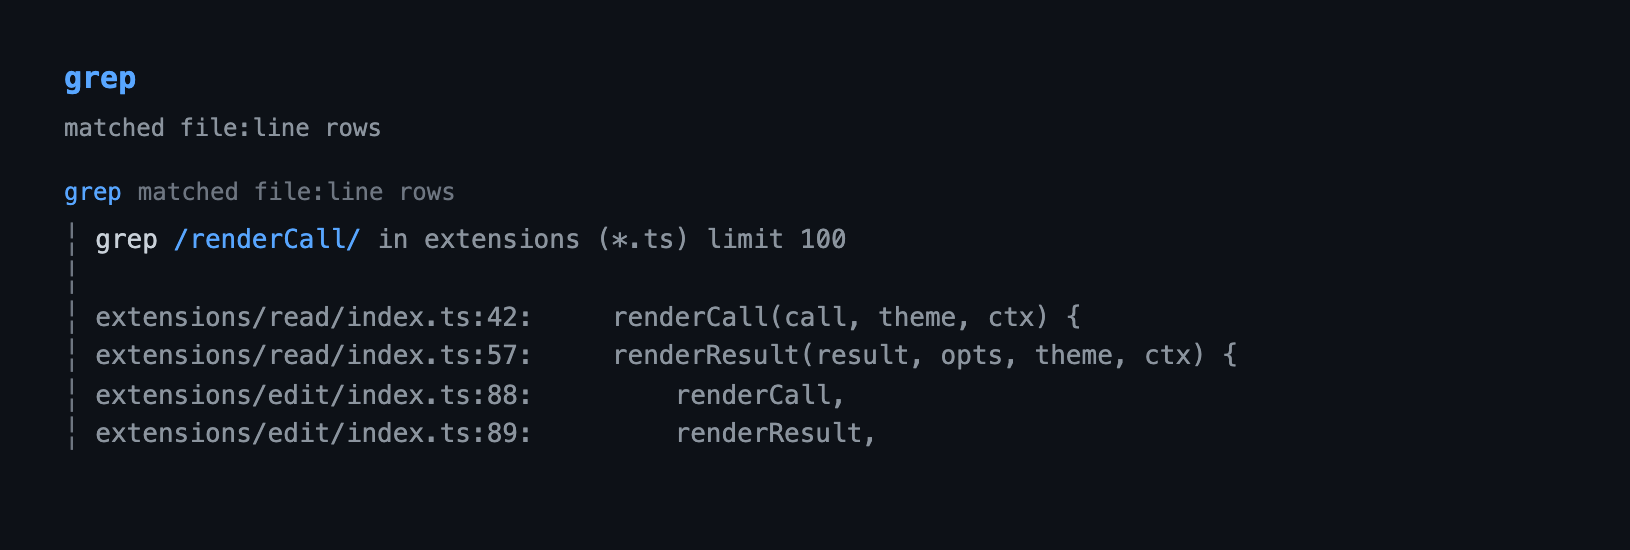
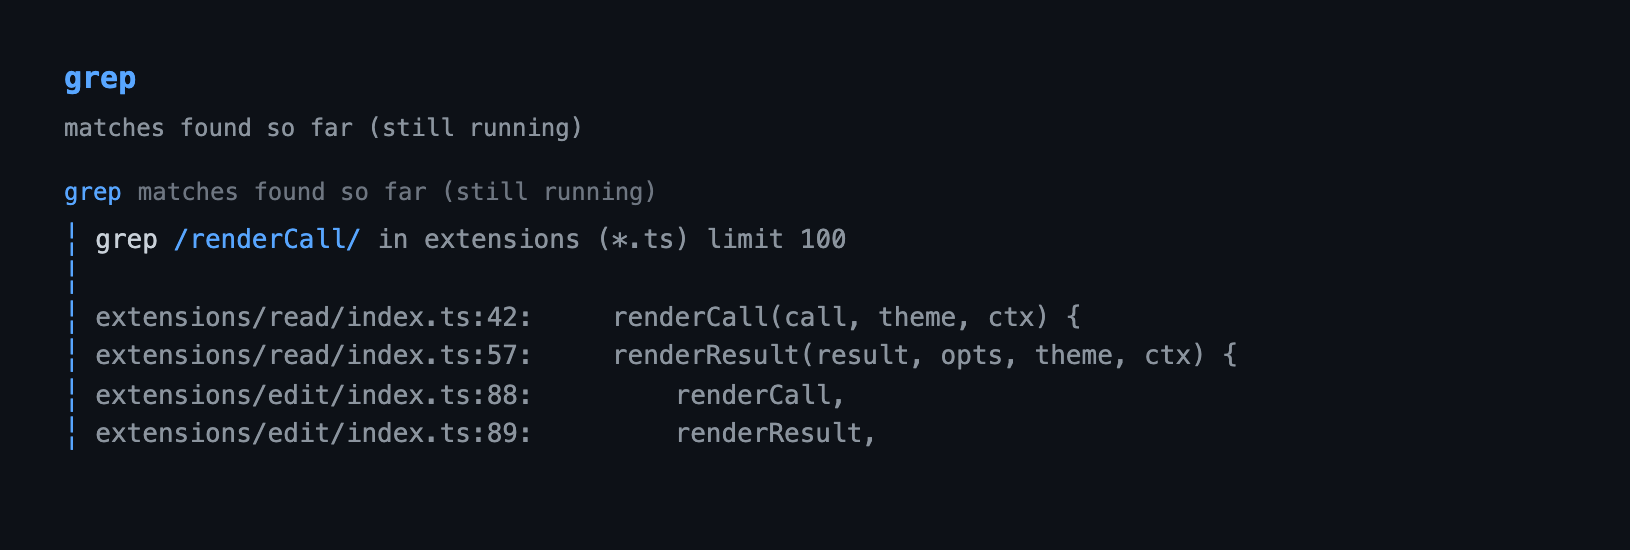
feat(bytefly): frame edit with the shared rail
`renderShell: "self"` only tells Pi not to draw its filled box, so once the
shipped themes emptied the tool fills `edit` was the one block with no frame at
all: no rail, no fill, no border. The resolver wraps it too, and drops the blank
edges its own Box pads itself with so the rail starts at the call. The rail's
blank test now ignores terminal sequences, so a background-padded line counts as
blank instead of as content.

The gallery also draws `grep` mid-run, so the accent rail the running case gets
is visible beside the neutral and failed ones; the gallery and the `edit` and
`grep` per-tool images are regenerated.

Changed region(s): [[0.092, 0.2164, 0.3681, 0.2473], [0.1534, 0.34, 0.3988, 0.3709]]

diff --git a/extensions/bytefly/block/register.ts b/extensions/bytefly/block/register.ts
@@ -7,9 +7,11 @@
  * content is unchanged and only the framing is bytefly's. A tool with no
  * renderer gets a framed generic fallback instead of an unframed row.
  *
- * A tool that already renders its own shell (`renderShell: "self"`, currently
- * `edit`) is returned untouched: it draws its own frame, and wrapping it would
- * nest a second one.
+ * The frame is added even for a tool that sets `renderShell: "self"` (`edit`):
+ * that only tells Pi not to draw its filled box, and the shipped themes leave
+ * the tool fills to the terminal, so such a tool would otherwise be the one
+ * block with no frame at all. The rail is bytefly's, not Pi's box, so nothing
+ * nests.
  *
  * Pi hands a renderer the component it returned last time as
  * `context.lastComponent`, and every built-in renderer reuses it in place — it
@@ -36,7 +38,6 @@ interface BlockMemory {
 export function registerToolBlocks(pi: ExtensionAPI): void {
 	pi.registerToolRenderer((toolName, next) => {
 		const base = next();
-		if (base?.renderShell === "self") return base;
 		return {
 			renderShell: "self",
 			renderCall: (args, theme, context) => {
@@ -45,7 +46,9 @@ export function registerToolBlocks(pi: ExtensionAPI): void {
 					base?.renderCall?.(args, theme, { ...context, lastComponent: memory.byteflyBaseCall }) ??
 					new Text(callFallback(toolName, args, theme, context.expanded), 0, 0);
 				memory.byteflyBaseCall = inner;
-				return new ToolBlock(inner, blockStatus(context), theme, context.outputPad);
+				// A self-shell renderer (`edit`) is a `Box` that pads itself top and
+				// bottom; drop those blank edges so the rail starts at the call.
+				return new ToolBlock(inner, blockStatus(context), theme, context.outputPad, base?.renderShell === "self");
 			},
 			renderResult: (result, options, theme, context) => {
 				const memory = context.state as BlockMemory;

diff --git a/lib/tui/rail.ts b/lib/tui/rail.ts
@@ -13,7 +13,7 @@
  */
 
 import type { Theme } from "@earendil-works/pi-coding-agent";
-import { type Component, truncateToWidth, visibleWidth } from "@earendil-works/pi-tui";
+import { type Component, stripTerminalSequences, truncateToWidth, visibleWidth } from "@earendil-works/pi-tui";
 import { GLYPHS } from "./glyphs.ts";
 import { paint, type TuiRole } from "./tokens.ts";
 
@@ -43,8 +43,19 @@ export const RAIL_ROLES: Readonly<Record<RailStatus, TuiRole>> = {
 export interface RailOptions {
 	/** Extra columns before the rail, e.g. a tool's `outputPad`. */
 	indent?: number;
+	/** Drop leading lines with no visible content. Default false. */
+	trimLeading?: boolean;
 	/** Drop trailing lines with no visible content. Default true. */
 	trimTrailing?: boolean;
+}
+
+/**
+ * A line with no visible text. Tested after stripping terminal sequences, so a
+ * line that is only spaces carrying a background (a `Box`'s own padding) counts
+ * as blank rather than as content.
+ */
+function isBlank(line: string): boolean {
+	return stripTerminalSequences(line).trim().length === 0;
 }
 
 /** Columns the rail prefix occupies at an indent. */
@@ -90,7 +101,13 @@ export function railBlockLines(
 			continue;
 		}
 		lines.push(truncateToWidth(`${prefix}${line}`, w, ""));
-		blank.push(visibleWidth(line) === 0);
+		blank.push(isBlank(line));
+	}
+	if (options.trimLeading) {
+		while (blank.length > 0 && blank[0]) {
+			lines.shift();
+			blank.shift();
+		}
 	}
 	if (options.trimTrailing !== false) {
 		while (blank.length > 0 && blank[blank.length - 1]) {

diff --git a/extensions/bytefly/block/component.ts b/extensions/bytefly/block/component.ts
@@ -35,8 +35,9 @@ export function toolBlockLines(
 	theme: Theme,
 	width: number,
 	outputPad: number,
+	trimLeading = false,
 ): string[] {
-	return railLines(inner, BLOCK_CONFIG.roles[status], theme, width, { indent: outputPad });
+	return railLines(inner, BLOCK_CONFIG.roles[status], theme, width, { indent: outputPad, trimLeading });
 }
 
 /** The rail frame Pi mounts in place of its background box for a tool row. */
@@ -46,6 +47,12 @@ export class ToolBlock implements Component {
 		private readonly status: BlockStatus,
 		private readonly theme: Theme,
 		private readonly outputPad: number,
+		/**
+		 * Drop the component's own leading blank lines. Set for a `renderShell:
+		 * "self"` tool (`edit`), whose `Box` pads itself top and bottom; without
+		 * this the frame draws a bare rail above the call.
+		 */
+		private readonly trimLeading = false,
 	) {}
 
 	invalidate(): void {
@@ -53,6 +60,6 @@ export class ToolBlock implements Component {
 	}
 
 	render(width: number): string[] {
-		return toolBlockLines(this.inner, this.status, this.theme, Math.max(1, width), this.outputPad);
+		return toolBlockLines(this.inner, this.status, this.theme, Math.max(1, width), this.outputPad, this.trimLeading);
 	}
 }

diff --git a/extensions/bytefly/block/register.test.ts b/extensions/bytefly/block/register.test.ts
@@ -32,9 +32,16 @@ describe("registerToolBlocks", () => {
 		expect(lines[0]?.startsWith(RAIL)).toBe(true);
 	});
 
-	test("leaves a tool that renders its own shell unchanged", () => {
-		const base = { renderShell: "self" as const, renderCall: () => new Text("own", 0, 0) };
-		expect(resolver()("edit", () => base)).toBe(base);
+	test("frames a tool that renders its own shell, dropping its blank edges", () => {
+		const base = {
+			renderShell: "self" as const,
+			renderCall: () => new Text(["", "own", ""].join("\n"), 0, 0),
+		};
+		const renderers = resolver()("edit", () => base);
+		expect(renderers?.renderShell).toBe("self");
+		const lines = renderers?.renderCall?.({}, fakeTheme, ctx()).render(40) ?? [];
+		expect(lines).toHaveLength(1);
+		expect(lines[0]?.trimEnd()).toBe(`${RAIL} own`);
 	});
 
 	test("frames a generic fallback when the base has no renderer", () => {

diff --git a/lib/tui/rail.test.ts b/lib/tui/rail.test.ts
@@ -57,6 +57,19 @@ describe("railBlockLines", () => {
 		expect(railBlockLines(["a", "", "b", ""], "ok", fakeTheme, 40)).toEqual([`${RAIL} a`, `${RAIL} `, `${RAIL} b`]);
 	});
 
+	test("treats a background-padded line as blank when trimming", () => {
+		const padded = "\u001b[49m      \u001b[49m";
+		expect(railBlockLines(["a", padded], "ok", fakeTheme, 40)).toEqual([`${RAIL} a`]);
+	});
+
+	test("keeps a leading blank by default", () => {
+		expect(railBlockLines(["", "a"], "ok", fakeTheme, 40)).toEqual([`${RAIL} `, `${RAIL} a`]);
+	});
+
+	test("drops leading blanks when asked", () => {
+		expect(railBlockLines(["", "a", ""], "ok", fakeTheme, 40, { trimLeading: true })).toEqual([`${RAIL} a`]);
+	});
+
 	test("keeps trailing blanks when asked", () => {
 		expect(railBlockLines(["a", ""], "ok", fakeTheme, 40, { trimTrailing: false })).toEqual([`${RAIL} a`, `${RAIL} `]);
 	});

diff --git a/extensions/bytefly/block/component.test.ts b/extensions/bytefly/block/component.test.ts
@@ -57,6 +57,10 @@ describe("toolBlockLines", () => {
 		expect(toolBlockLines(innerOf(["a", ""]), "ok", fakeTheme, 40, 0)).toEqual([`${RAIL} a`]);
 	});
 
+	test("drops a self-shell's leading blanks when asked", () => {
+		expect(toolBlockLines(innerOf(["", "a"]), "ok", fakeTheme, 40, 0, true)).toEqual([`${RAIL} a`]);
+	});
+
 	test("renders nothing for an absent inner", () => {
 		expect(toolBlockLines(undefined, "ok", fakeTheme, 40, 0)).toEqual([]);
 	});

diff --git a/scripts/tool-fixtures.ts b/scripts/tool-fixtures.ts
@@ -127,8 +127,10 @@ export const FIXTURES: ToolFixture[] = [
 	{
 		name: "grep",
 		group: "builtin",
-		label: "matched file:line rows",
+		label: "matches found so far (still running)",
 		args: { pattern: "renderCall", path: "extensions", glob: "*.ts", limit: 100 },
+		// The accent rail: a running call is the one block that spends colour.
+		options: { isPartial: true },
 		result: {
 			content: [
 				{

diff --git a/extensions/bytefly/README.md b/extensions/bytefly/README.md
@@ -180,11 +180,13 @@ the two share one left edge and one nesting depth. The rail is neutral by
 default: a finished call is `dim`, only a running call takes the accent, and only
 a failure is red, so the transcript spends colour where something needs
 attention instead of on every block. A tool with no renderer of its own is
-framed around a generic call/result fallback. A tool that already draws its own
-shell (`edit`) is left as it is, because wrapping it would nest a second frame;
-the shipped themes leave the tool fills to the terminal, so its box carries no
-fill either and sits in the same rail family. The frame's status roles are tuned
-in [`block/config.ts`](./block/config.ts).
+framed around a generic call/result fallback. A tool that draws its own shell
+(`edit`) is framed too: `renderShell: "self"` only tells Pi not to draw its
+filled box, and the shipped themes leave the tool fills to the terminal, so
+without the rail `edit` would be the one block with no frame at all. Its own
+`Box` pads itself top and bottom, so the frame drops those blank edges and starts
+at the call. The frame's status roles are tuned in
+[`block/config.ts`](./block/config.ts).
 
 **Extension screen.** `/bytefly [extension] [refresh]` opens a keyboard-driven
 dock list of every Pi extension the session resolves — across personal settings
@@ -683,7 +685,7 @@ rather than showing a wrong value.
 | Footer | `ctx.ui.setFooter` with a custom component, replacing Pi's built-in footer; installed only when `ctx.mode === "tui"`. |
 | User message | `pi.registerMarkdownTransformer` puts a two-row `You` nameplate (the label over a full-width rule) above each user message; one padded level-2 heading carries the accent through `mdHeading` for both rows, and the shipped themes set `userMessageBg` to the terminal default, so the block has no fill. Pi renders the result as Markdown, so the surface adds no component or color of its own. |
 | Notice | `registerMessageRenderer(NOTICE_TYPE)` draws every shared transcript notice as a rail from its `details`; the type and shape come from `lib/notice.ts`. A message without `details` falls back to Pi's default custom-message box. |
-| Tool blocks | `registerToolRenderer` returns, for every tool, `renderShell: "self"` and `renderCall`/`renderResult` that wrap the tool's own renderer (or a generic fallback) in the rail frame; a tool that already sets `renderShell: "self"` is returned unchanged. |
+| Tool blocks | `registerToolRenderer` returns, for every tool, `renderShell: "self"` and `renderCall`/`renderResult` that wrap the tool's own renderer (or a generic fallback) in the rail frame; a tool that already sets `renderShell: "self"` (`edit`) is framed too, with its own blank edge lines trimmed. |
 | Screen command | `pi.registerCommand("bytefly")` takes `[doctor] [extension] [refresh]`: `tui` mounts a dock screen via `ctx.ui.custom()` with the rails suppressed; other modes print through `ctx.ui.notify()` — the grouped listing, or `run_doctor`'s report for `doctor`. Tab completes `doctor`, extension names, and `refresh`. |
 | Turn separator | `registerEntryRenderer("bytefly-separator")` draws each rule; `agent_settled` appends `pi.appendEntry("bytefly-separator", { turn })` in `tui` mode only. |
 | Notifications | `agent_settled` (skipped when aborted), `ui_prompt_start` only while `agent_start`…`agent_settled` marks a run active, and `my-pi-agent/job-finished` on `pi.events`; the `notify` section of `bytefly.json` gates each. Delivery writes an OSC 777/99 sequence to stdout or spawns `osascript`, `notify-send`, or `powershell.exe`. The bus subscription is created in `session_start` and released in `session_shutdown`, and the `job` extension never imports bytefly. |
@@ -730,8 +732,10 @@ rather than showing a wrong value.
   status box for a rail — and keeps every built-in's diff,
   syntax highlighting, and truncation. The call and result are sibling
   components with no spacer between them, so one rail drawn by each is
-  continuous. A tool that renders its own shell (`edit`) is left alone, because
-  two frames would nest. Each base renderer is handed its own previous component
+  continuous. A tool that renders its own shell (`edit`) is framed too: with the
+  shipped themes' empty tool fills its `Box` has no visible chrome, so the rail
+  is the only frame it has; its blank edge lines are trimmed so the rail starts
+  at the call. Each base renderer is handed its own previous component
   (tracked in the row's `state`), never the frame: Pi gives a renderer the
   component it returned last time, and a built-in calls `setText` on it, so
   handing back the frame would break it.
@@ -904,7 +908,7 @@ columns, gauge), so the look follows the active theme.
 | `notice/component.ts` | Pure `noticeLines` and `NoticeComponent`: the headline and the severity-led rows, sanitized and width-clipped. |
 | `notice/register.ts` | Registers the message renderer for the shared notice type. |
 | `block/config.ts` | Tool-block tuning (`BLOCK_CONFIG`): the rail's status roles — neutral when finished, the accent while running, `bad` on error. The rail glyph and indent are shared in `lib/tui/rail.ts`. |
-| `block/component.ts` | Pure `toolBlockLines` and `ToolBlock`: the indent, the status rail, the reduced-width inner render, and the image-line passthrough. |
+| `block/component.ts` | Pure `toolBlockLines` and `ToolBlock`: the indent, the status rail, the reduced-width inner render, the optional leading-blank trim for a self-shell `Box`, and the image-line passthrough. |
 | `block/fallback.ts` | Generic `callFallback` / `resultFallback` for a tool with no renderer. |
 | `block/register.ts` | The `registerToolRenderer` resolver that frames every tool. |
 | `separator/config.ts` | Turn-rule tuning: `customType`, glyph, label prefix, padding, and roles. |

diff --git a/CHANGELOG.md b/CHANGELOG.md
@@ -15,11 +15,13 @@ to [Semantic Versioning](https://semver.org/spec/v2.0.0.html).
   `bun run screenshot:tool-pngs` writes one image per tool under `assets/tools/`.
   Both are embedded in the extension READMEs and the catalog, and
   `bun run scripts/tool-renderings.ts render <name> --width <n>` prints one block
-  as ANSI on any OS.
+  as ANSI on any OS. One built-in is drawn mid-run, so the rail's accent state
+  appears beside the neutral and failed ones.
 - `bytefly`: frames every tool block — built-ins included — with a status-colored
   rail in place of Pi's filled background box, wrapping each tool's own renderer
   so diffs, syntax highlighting, and previews are unchanged. `edit`, which draws
-  its own shell, keeps its box.
+  its own shell, is framed too: its `Box` carries no fill in the shipped themes,
+  so the rail is the only frame it has.
 - `bytefly`: renders the shared transcript notice — a `source · title` rail with
   severity-led rows — that any extension posts under the shared
   `my-pi-agent/notice` type.

diff --git a/docs/extensions.md b/docs/extensions.md
@@ -259,7 +259,9 @@ notice, and the turn rule, then Pi's built-ins (`read`, `write`, `edit`, `bash`,
 `grep`, `find`, `ls` — diffs, syntax highlighting and previews intact), then every
 tool this package registers: `todo`, `goal`, `memory`, `job`, `watch`,
 `subagent`, `web_search`, `web_fetch`, `read_doc`, `open_path`, `run_doctor`,
-`send_wechat`, `ask_user_question`, the plan tools, and the worktree tools.
+`send_wechat`, `ask_user_question`, the plan tools, and the worktree tools. One
+built-in is drawn mid-run, so the rail's accent state appears beside the neutral
+and failed ones.
 
 <img src="../assets/tool-renderings.png" alt="A full-page reference of every tool block: the user nameplate, a notice and the turn rule, Pi's read, write, edit, bash, grep, find, and ls renderers, and every package tool — todo, goal, memory, job, watch, subagent, web_search, web_fetch, read_doc, open_path, run_doctor, send_wechat, ask_user_question, the plan tools, and the worktree tools" width="100%">
 
